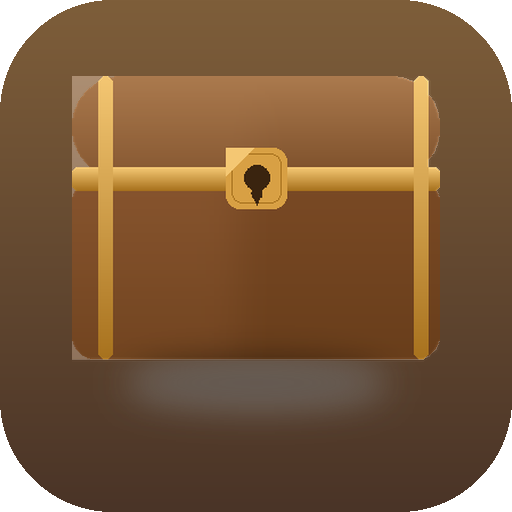
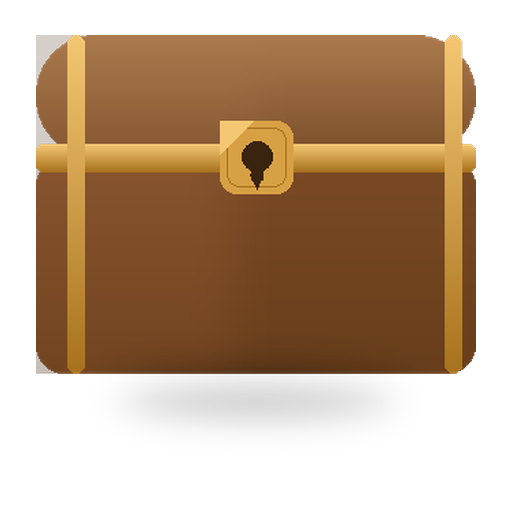
回退图标为透明漂空宝箱(与闪屏一致)，彻底移除暖深棕方/圆底徽章版；版本2026.09.05.01

diff --git a/index.html b/index.html
@@ -25,15 +25,15 @@
   <meta name="twitter:card" content="summary">
   <meta name="twitter:title" content="栖匣 · 大学生成长中枢">
   <meta name="twitter:image" content="https://lumenplexus.github.io/centrove/pwa/share-512.png">
-  <link rel="manifest" href="pwa/manifest.json?v=2026090412">
+  <link rel="manifest" href="pwa/manifest.json?v=2026090501">
   <link rel="icon" href="favicon.ico" sizes="any">
-  <link rel="icon" type="image/png" sizes="192x192" href="pwa/icon-20260910-192.png?v=2026090401">
-  <link rel="icon" type="image/png" sizes="96x96" href="favicon-96.png?v=2026090401">
-  <link rel="icon" type="image/png" sizes="32x32" href="favicon-32.png">
-  <link rel="icon" type="image/png" sizes="16x16" href="favicon-16.png">
-  <!-- 主屏图标：统一为产品原生宝箱 logo.png 直接生成（深棕底 + 原样宝箱） -->
-  <link rel="apple-touch-icon" sizes="180x180" href="pwa/apple-touch-icon.png?v=2026090401">
-  <link rel="apple-touch-icon" href="pwa/apple-touch-icon.png?v=2026090401">
+  <link rel="icon" type="image/png" sizes="192x192" href="pwa/icon-20260910-192.png?v=2026090501">
+  <link rel="icon" type="image/png" sizes="96x96" href="favicon-96.png?v=2026090501">
+  <link rel="icon" type="image/png" sizes="32x32" href="favicon-32.png?v=2026090501">
+  <link rel="icon" type="image/png" sizes="16x16" href="favicon-16.png?v=2026090501">
+  <!-- 主屏图标：统一为产品原生宝箱 logo.png（透明漂空宝箱，与闪屏一致，无底色） -->
+  <link rel="apple-touch-icon" sizes="180x180" href="pwa/apple-touch-icon.png?v=2026090501">
+  <link rel="apple-touch-icon" href="pwa/apple-touch-icon.png?v=2026090501">
   <!-- iOS 启动图（从主屏幕图标打开时显示品牌启动屏，避免白屏） -->
   <link rel="apple-touch-startup-image" media="screen and (device-width:430px) and (device-height:932px)" href="pwa/splash-6.1.png">
   <link rel="apple-touch-startup-image" media="screen and (device-width:390px) and (device-height:844px)" href="pwa/splash-6.1.png">

diff --git a/sw.js b/sw.js
@@ -6,7 +6,7 @@
    - HTML 导航采用网络优先（保证每次拿到最新页面），静态资源采用 stale-while-revalidate
      （离线秒开、在线自动后台刷新）。
    安全说明：本 SW 只缓存本站静态资源，绝不读写、上传任何 localStorage 用户数据。 */
-var VERSION = '2026.09.04.12';
+var VERSION = '2026.09.05.01';
 var PRE = 'centrove-pre-' + VERSION;
 var RUN = 'centrove-run-' + VERSION;
 
